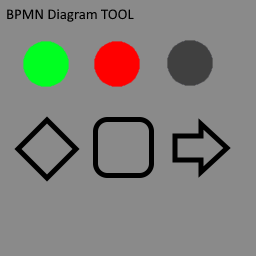
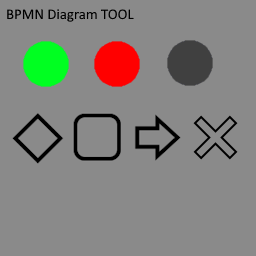
bababooey

Changed region(s): [[0.0312, 0.4375, 0.9375, 0.7188]]

diff --git a/source/main.c b/source/main.c
@@ -47,6 +47,7 @@ int arrowcolumn = 0;
 #define GRAYFANCY ARGB16(1, 15, 15, 15)
 #define BLACKFANCY ARGB16(1, 0, 0, 0)
 #define WHITEFANCY ARGB16(1, 31, 31, 31)
+#define BLUEFANCY ARGB16(1, 0, 0, 31)
 
 BPMNElement elements[ROWS][COLUMNS];
 BPMNElement flows[64];
@@ -71,15 +72,19 @@ void drawCursor(u16* cursor1)
 			cursor1, -1, false, false, false, false, false);
             break;
         case 3:
-            oamSet(&oamMain, 3, 45, 145, 0, 0, SpriteSize_32x32, SpriteColorFormat_256Color,
+            oamSet(&oamMain, 3, 35, 135, 0, 0, SpriteSize_32x32, SpriteColorFormat_256Color,
 			cursor1, -1, false, false, false, false, false);
             break;
         case 4:
-            oamSet(&oamMain, 3, 116, 145, 0, 0, SpriteSize_32x32, SpriteColorFormat_256Color,
+            oamSet(&oamMain, 3, 95, 135, 0, 0, SpriteSize_32x32, SpriteColorFormat_256Color,
 			cursor1, -1, false, false, false, false, false);
             break;
         case 5:
-            oamSet(&oamMain, 3, 190, 145, 0, 0, SpriteSize_32x32, SpriteColorFormat_256Color,
+            oamSet(&oamMain, 3, 160, 135, 0, 0, SpriteSize_32x32, SpriteColorFormat_256Color,
+			cursor1, -1, false, false, false, false, false);
+            break;
+        case 6:
+            oamSet(&oamMain, 3, 210, 135, 0, 0, SpriteSize_32x32, SpriteColorFormat_256Color,
 			cursor1, -1, false, false, false, false, false);
             break;
         default:
@@ -157,6 +162,25 @@ void drawArrow(BPMNElement Arrow, u16 color)
     if (x2 - canvasOffsetX >= 16) {x2 = 15;}
     if (y1 - canvasOffsetX >= 12) {x1 = 11;}
     if (y2 - canvasOffsetX >= 12) {x2 = 11;}
+
+    x1 *= 16;
+    x2 *= 16;
+    y1 *= 16;
+    y2 *= 16;
+    // Draw line using Bresenham's algorithm
+    
+    
+    for (int i = MIN(x1, x2); i < MAX(x1, x2); i++)
+    {
+        BG_GFX_SUB[(y1 + 8) * SCREEN_WIDTH + i + 8] = color;
+        BG_GFX_SUB[(y1 + 9) * SCREEN_WIDTH + i + 8] = color;
+    }
+
+    for (int i = MIN(y1, y2); i < MAX(y1, y2), i++)
+    {
+        BG_GFX_SUB[(i + 8) * SCREEN_WIDTH + x1 + 8] = color;
+        BG_GFX_SUB[(i + 8) * SCREEN_WIDTH + x1 + 9] = color;
+    }
 }
 
 
@@ -271,6 +295,14 @@ void addFigure(int x, int y)
             break;
         case 5:
             break;
+        case 6:
+            tempelement.type = ELEMENT_NONE;
+            tempelement.startrow = -1;
+            tempelement.startcolumn = -1;
+            tempelement.endrow = -1;
+            tempelement.endcolumn = -1;
+            elements[y][x] = tempelement;
+            break;
         default:
             tempelement.type = START_EVENT;
             tempelement.startrow = -1;
@@ -312,6 +344,7 @@ void renderCanvas()
     for (int i = 0; i < totalflows; i++)
     {
         BPMNElement currentArrow = flows[i];   
+        drawArrow(currentArrow, BLUEFANCY);
     }
     return;
 }
@@ -391,7 +424,7 @@ int main(int argc, char *argv[])
         {
             if (topScreenCursor == 0)
             {
-                topScreenCursor = 5;
+                topScreenCursor = 6;
             }
             else
             {
@@ -401,7 +434,7 @@ int main(int argc, char *argv[])
         }
         else if (keys & KEY_R)
         {
-            if (topScreenCursor == 5)
+            if (topScreenCursor == 6)
             {
                 topScreenCursor = 0;
             }
@@ -461,20 +494,20 @@ int main(int argc, char *argv[])
             {
                 if (arrowdrawn)
                 {
-                    BPMNElement tempelement; 
+                    BPMNElement tempelement;
                     tempelement.type = FLOW;
                     tempelement.startrow = arrowrow;
                     tempelement.startcolumn = arrowcolumn;
-                    tempelement.endrow = newy;
-                    tempelement.endcolumn = newx;
+                    tempelement.endrow = newy + canvasOffsetY;
+                    tempelement.endcolumn = newx + canvasOffsetX;
                     flows[totalflows] = tempelement;
                     totalflows++;
                     arrowdrawn = false;
                 }
                 else
                 {
-                    arrowrow = newy;
-                    arrowcolumn = newx;
+                    arrowrow = newy + canvasOffsetY;
+                    arrowcolumn = newx + canvasOffsetX;
                     arrowdrawn = true;
                 }
 
